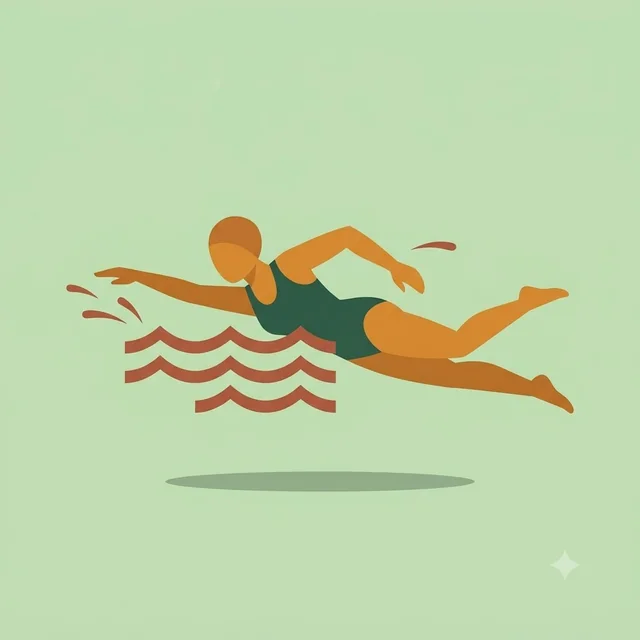
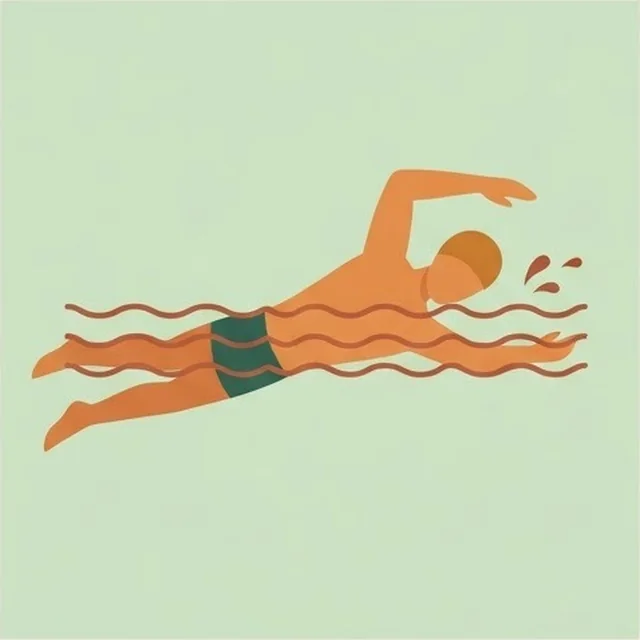
feat: 고른 종목 그림 남녀 (4/6) — 스케이팅 · 스키 · 서핑 · 수영 남녀 + 자전거 여자
예현: "이 이미지 작업들도 남녀 이미지로 나눠서 작업해줘". 플랫 일러스트(640px WebP), SPORT_ART 를 파일에 맞춰 고친다.

Changed region(s): [[0.0312, 0.25, 0.9375, 0.7188], [0.25, 0.7188, 0.75, 0.7812], [0.9688, 0.9688, 1.0, 1.0]]

diff --git a/frontend/index.html b/frontend/index.html
@@ -6321,7 +6321,7 @@ const POSE_FOR_SPORT = {
    SPORT_ART 는 종목 id → 가지고 있는 그림('mf' · 'm' · 'f'). 아직 한쪽만 그린 종목은 있는 쪽을 보여 주고,
    아예 없는 종목은 예전처럼 3D(POSE_FOR_SPORT)로 간다 — 없는 그림을 부르면 404 가 나고 빈 칸이 깜빡인다.
    (tests/test_sport_art.py 가 이 표와 파일을 맞춰 본다.) */
-const SPORT_ART = { badminton: 'm', ballet: 'mf', baseball: 'mf', basketball: 'm', bowling: 'mf', boxing: 'mf', climbing: 'mf', crossfit: 'mf', cycling: 'm', dance: 'mf', golf: 'm', gym: 'mf', hiking: 'mf', jiujitsu: 'mf', jumprope: 'm', kendo: 'mf', marathon: 'mf', pilates: 'mf', pole: 'mf', running: 'm', soccer: 'm', squash: 'm', swimming: 'm', tabletennis: 'm', tennis: 'm' };
+const SPORT_ART = { badminton: 'm', ballet: 'mf', baseball: 'mf', basketball: 'm', bowling: 'mf', boxing: 'mf', climbing: 'mf', crossfit: 'mf', cycling: 'mf', dance: 'mf', golf: 'm', gym: 'mf', hiking: 'mf', jiujitsu: 'mf', jumprope: 'm', kendo: 'mf', marathon: 'mf', pilates: 'mf', pole: 'mf', running: 'm', skating: 'mf', ski: 'mf', soccer: 'm', squash: 'm', surfing: 'mf', swimming: 'mf', tabletennis: 'm', tennis: 'm' };
 function sportArtUrl(step){
   if (!step || step.출처 !== '종목' || youtubeVideoId(step.youtube_id)) return null;   // 영상이 있으면 영상
   const 있는 = SPORT_ART[step.id];
